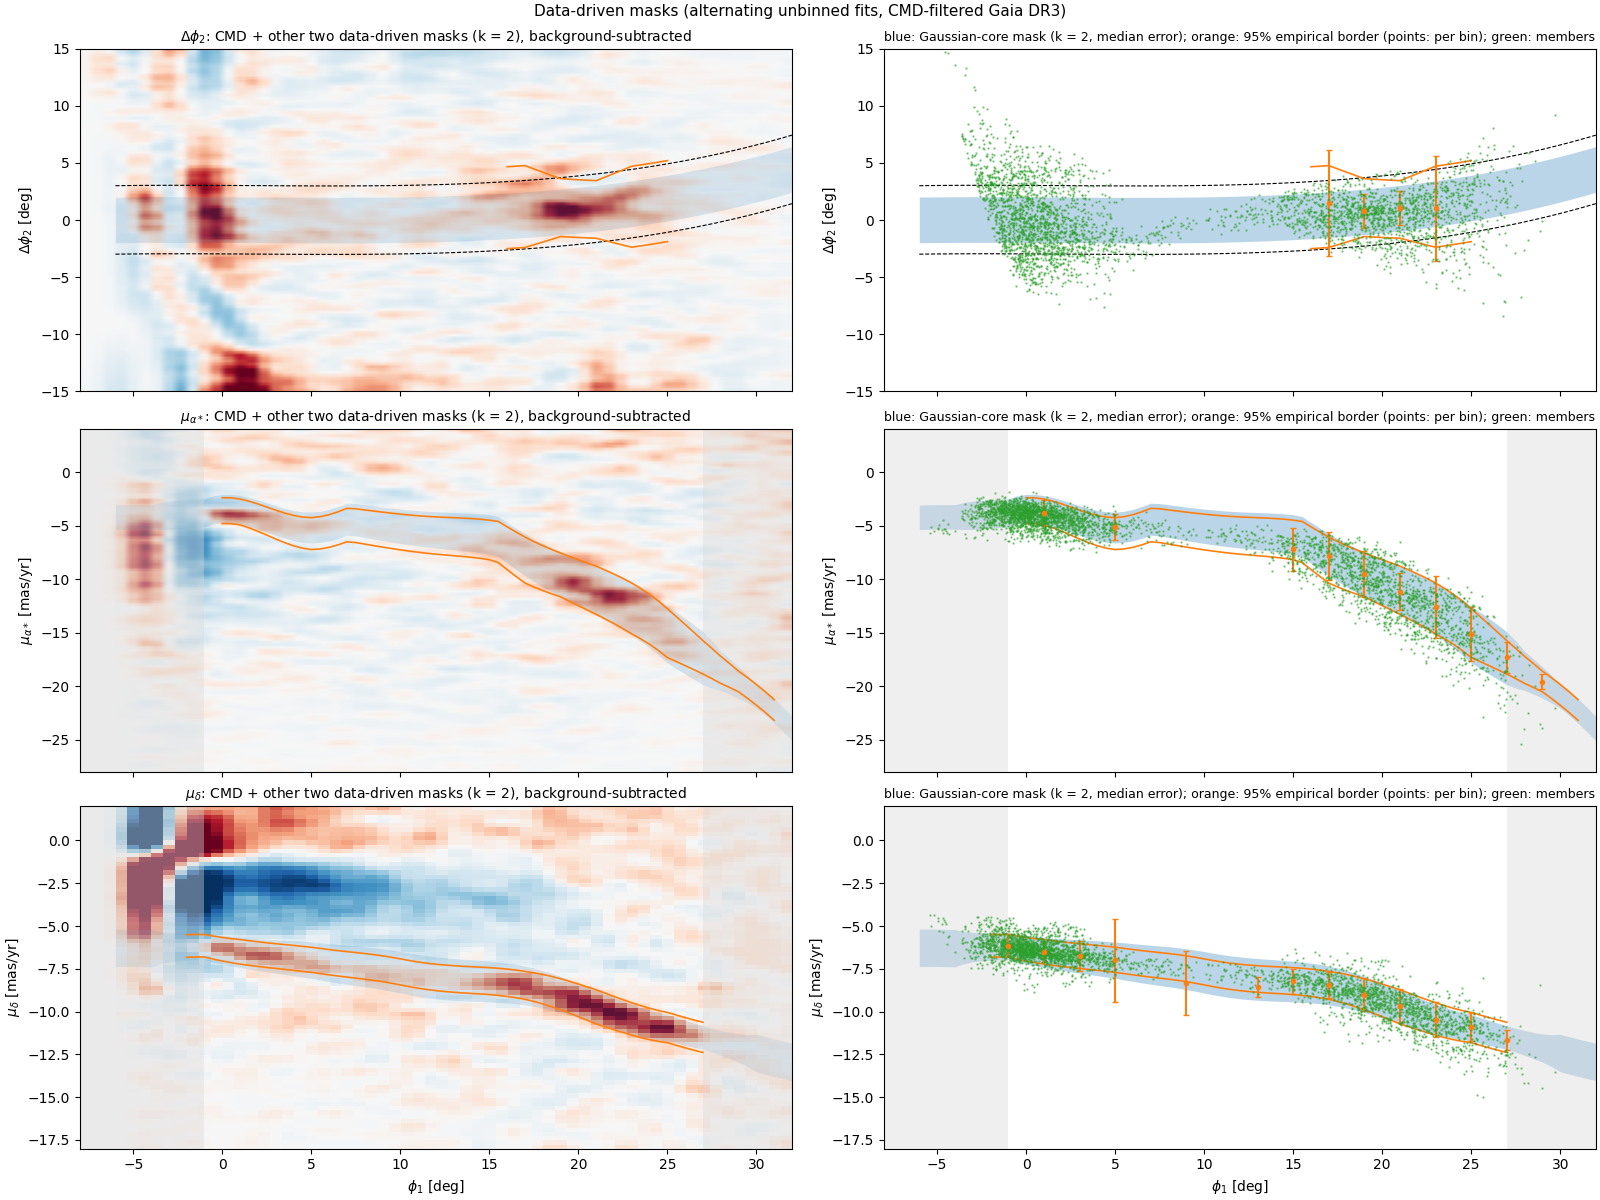
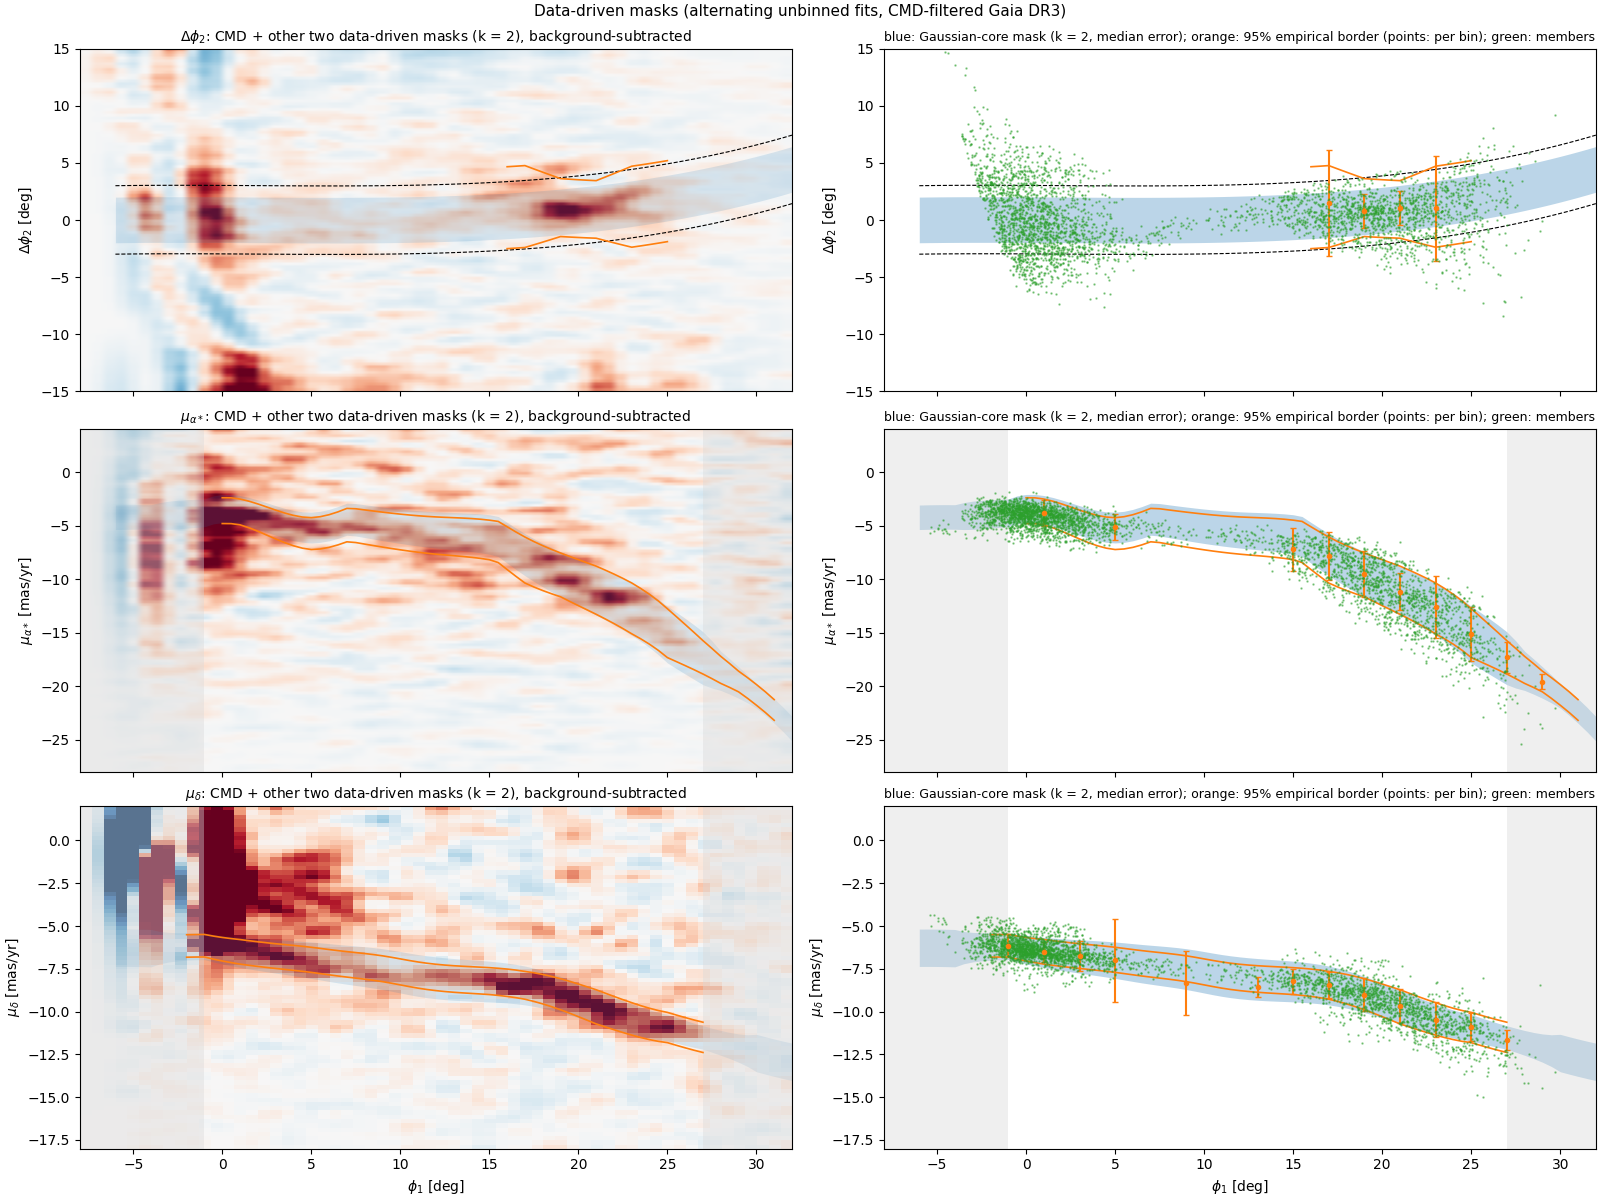
stream_masks.py: displayed PM backgrounds per (phi1 column, PM pixel) by quadratic interpolation in dphi2 from 1-deg bands 5-14 deg off (constant where one-sided)

diff --git a/bin/streams/stream_masks.py b/bin/streams/stream_masks.py
@@ -23,6 +23,9 @@ excess in a wide window (completeness_borders), 3-bin running mean, linearly int
 tracks are anchored within 1.5 / 1.0 mas/yr and 2 deg of the starting (marked) tracks (with the wide |dphi2| < 5 window the pmra
 iteration otherwise ran onto field structure at phi1 5-17); drawn in orange and stored
 as lo95 / hi95 offsets from the track (the Gaussian core underestimates the borders where the stream has wings).
+Displayed PM panels: background per (phi1 column, PM pixel) = quadratic in (dphi2 - window centre) fitted to 1-deg bands at
+5-14 deg on both sides and integrated over the +-3 deg window (no global or total-count scaling); where bands exist on one side only (b > 8 edge near
+the cluster) a constant from that side is used (a quadratic extrapolated badly there).
 Outputs: results/plot_data/stream_masks.json (tracks and widths on a phi1 grid, per-bin fit tables, iteration history),
 plots/stream_masks_fits.png (per-bin centres/widths with errors per iteration), plots/stream_masks_xsel.png (cross-selection with the
 final masks at k = 2, background-subtracted, with STREAMFINDER members in a separate column).
@@ -334,8 +337,20 @@ def main():
             dsky = x-ev(T, "dphi2", u); onS = np.abs(x-SKYC(u)) < SKY_HALF; offS = (np.abs(x-SKYC(u)) > OFF_SKY[0]) & (np.abs(x-SKYC(u)) < OFF_SKY[1])
             sel2 = other_masks(D, T, q, K_FINAL) | True
             selp = other_masks(D, T, q, K_FINAL, sky=False)
-            H = np.histogram2d(u[selp & onS], v[selp & onS], (E1, Ey))[0]; Hf = np.histogram2d(u[selp & offS], v[selp & offS], (E1, Ey))[0]
-            nn = np.histogram(u[onS], E1)[0]; nf = np.histogram(u[offS], E1)[0]; B = Hf*np.divide(nn, nf, out=np.zeros(len(c1)), where=nf > 0)[:, None]
+            H = np.histogram2d(u[selp & onS], v[selp & onS], (E1, Ey))[0]
+            # background per (phi1 column, PM pixel): quadratic in y = dphi2 - centre fitted to 1-deg bands at 5 <= |y| < 14 (both sides),
+            # integrated over the window |y| < 3; bands outside the footprint (empty in every column/pixel) are dropped per column
+            yv = x-SKYC(u); Eb = np.arange(-14, 14.01, 1.); cb = 0.5*(Eb[1:]+Eb[:-1]); offb = np.abs(cb) >= OFF_SKY[0]
+            H3 = np.histogramdd(np.column_stack((u[selp], yv[selp], v[selp])), (E1, Eb, Ey))[0]
+            yy = np.linspace(-SKY_HALF, SKY_HALF, 61); B = np.zeros_like(H)
+            for jj in range(len(c1)):
+                ob = offb & (H3[jj].sum(1) > 0)                              # bands with stars in this column
+                if ob.sum() < 6:
+                    continue
+                both = (ob & (cb < 0)).sum() >= 3 and (ob & (cb > 0)).sum() >= 3
+                dg = 3 if both else 1                                       # one-sided (footprint edge): constant, not extrapolated
+                Pm = np.linalg.pinv(np.vander(cb[ob], dg)); coef = Pm @ H3[jj, ob, :]          # (dg, n_pm) per unit band (1 deg)
+                B[jj] = np.clip(np.vander(yy, dg) @ coef, 0, None).mean(0)*(2*SKY_HALF)
         e = (E1[0], E1[-1], Ey[0], Ey[-1])
         ax[i, 0].imshow(gaussian_filter((H-B)/np.sqrt(np.maximum(B, 1)), 1.).T, origin="lower", extent=e, aspect="auto", cmap="RdBu_r", vmin=-4, vmax=4)
         wt = np.median(D[err]) if err else 0.
